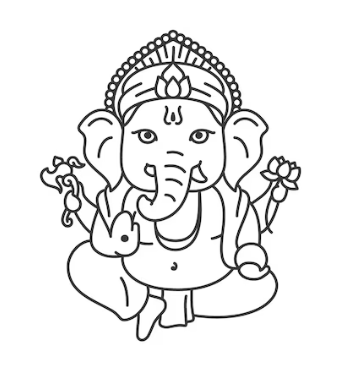
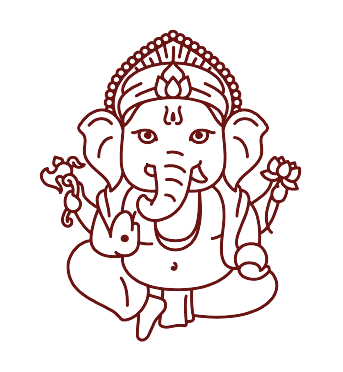
fix(gate): make doodle background transparent and show 1 day 1 hour countdown

diff --git a/src/components/launch/ComingSoonPage.jsx b/src/components/launch/ComingSoonPage.jsx
@@ -27,6 +27,12 @@ export function ComingSoonPage() {
 
   const pad = (n) => String(n).padStart(2, '0');
 
+  // Compute prominent remaining time string (e.g., "1 DAY 1 HOUR")
+  const displayHours = timeLeft.minutes > 0 ? timeLeft.hours + 1 : timeLeft.hours;
+  const timeRemainingSummary = timeLeft.total > 0
+    ? `${timeLeft.days > 0 ? `${timeLeft.days} DAY ` : ''}${displayHours} HOUR${displayHours !== 1 ? 'S' : ''}`.trim()
+    : 'LAUNCHING NOW';
+
   return (
     <div
       style={{
@@ -121,7 +127,7 @@ export function ComingSoonPage() {
           </span>
         </div>
 
-        {/* Central Requested Ganapati Doodle Illustration */}
+        {/* Central Transparent Ganapati Doodle Illustration */}
         <div
           style={{
             margin: '4px 0 14px',
@@ -170,7 +176,7 @@ export function ComingSoonPage() {
             borderRadius: '14px',
             padding: '8px 20px',
             boxShadow: '0 4px 14px rgba(91, 20, 20, 0.06)',
-            marginBottom: '20px'
+            marginBottom: '16px'
           }}
         >
           <p
@@ -202,7 +208,7 @@ export function ComingSoonPage() {
           >
             {[
               { label: 'DAYS', value: pad(timeLeft.days) },
-              { label: 'HOURS', value: pad(timeLeft.hours) },
+              { label: 'HOURS', value: pad(displayHours) },
               { label: 'MINS', value: pad(timeLeft.minutes) },
               { label: 'SECS', value: pad(timeLeft.seconds) }
             ].map((unit) => (

diff --git a/src/components/launch/GanapatiDoodle.jsx b/src/components/launch/GanapatiDoodle.jsx
@@ -42,21 +42,20 @@ export function GanapatiDoodle({ size = 260, className = '' }) {
         }}
       />
 
-      {/* Exact Hand-Drawn Ganapati Doodle Image */}
+      {/* Exact Hand-Drawn Ganapati Doodle Image (Transparent PNG) */}
       <img
         src="/assets/ganapati-doodle.png"
         alt="Hand-drawn Bappa Doodle"
         style={{
-          width: '85%',
-          height: '85%',
+          width: '88%',
+          height: '88%',
           objectFit: 'contain',
           position: 'relative',
           zIndex: 1,
-          mixBlendMode: 'multiply',
           display: 'block',
           userSelect: 'none',
           pointerEvents: 'none',
-          filter: 'contrast(1.08)'
+          filter: 'drop-shadow(0 6px 16px rgba(107, 20, 20, 0.14))'
         }}
       />
 
